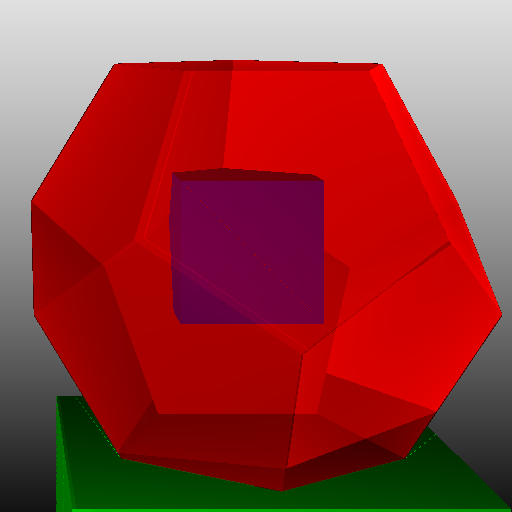
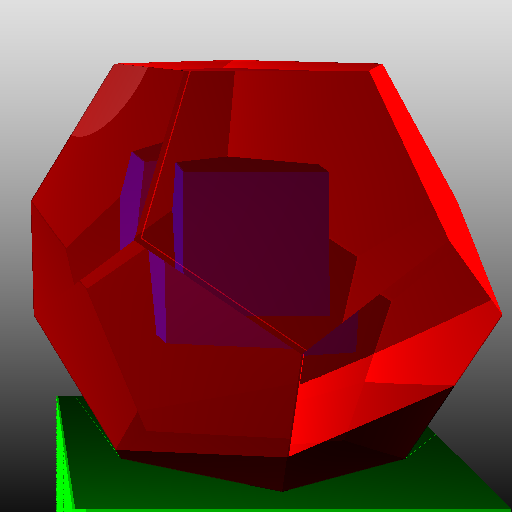
Process

diff --git a/Source/main.cpp b/Source/main.cpp
@@ -11,6 +11,7 @@
 float SIZE = 1;
 
 Vec refract_vec(Vec, Vec, float);
+Vec reflect_vec(Vec, Vec);
 
 Collision
 trace_ray(std::vector<Object *> *scene, std::vector<Light> *lights, Ray ray, int deep) {
@@ -28,9 +29,10 @@ trace_ray(std::vector<Object *> *scene, std::vector<Light> *lights, Ray ray, int
         }
     }
     if (hit.hit) {
-        Vec intersect(ray.pos + (ray.dir * hit.dist));
-        // light for THIS point
         size_t lights_len = lights->size();
+        Vec intersect(ray.pos + (ray.dir * hit.dist));
+        Vec first_intersect(intersect);
+        // light for THIS point
         float add = 0;
         for (size_t i = 0; i < lights_len; i++) {
             Vec light_dir = (*lights)[i].pos - intersect;
@@ -81,6 +83,29 @@ trace_ray(std::vector<Object *> *scene, std::vector<Light> *lights, Ray ray, int
             Collision through = trace_ray(scene, lights, through_ray, deep - 1);
             hit.color = (hit.color * hit.color.a) + (through.color * (1 - hit.color.a));
         }
+        if (hit.reflection > 0) { // other ray
+            Ray reflected_ray(first_intersect, reflect_vec(ray.dir, hit.normal));
+            Collision reflected = trace_ray(scene, lights, reflected_ray, deep - 1);
+            if (reflected.hit) {
+                hit.color = (hit.color * (1 - hit.reflection)) + (reflected.color * hit.reflection);
+            } else { // may be there is a light somewhere nearby?
+                float light_add = 0;
+                for (size_t i = 0; i < lights_len; i++) {
+                    Vec light_dir = (*lights)[i].pos - first_intersect;
+                    Vec current_dir = reflected_ray.pos + (reflected_ray.dir.normalize() * light_dir.len());
+                  //  float light_angle = abs(dot(light_dir.normalize(), current_dir.normalize()));
+                    //float angle_EPS = 0.1;
+                    float len_diff = (current_dir - light_dir).len(); 
+                    if (len_diff < 130) {
+                        std::cout << len_diff << '\n';   
+                        float angle = abs(dot(light_dir.normalize(), hit.normal.normalize()));
+                        light_add += angle * (*lights)[i].intensity / (light_dir.len() * light_dir.len());
+                    }
+                }
+                hit.color = (hit.color * (1 - hit.reflection)) + (Color(1, 1, 1, 1) *  (light_add * hit.reflection));
+
+            }
+        }
     
     }
     
@@ -93,6 +118,11 @@ refract_vec(Vec v, Vec normal, float refract) {
     float beta = asin(sin(alpha) / refract);
     Vec axis = cross(v, normal);
     return rotateAroundAxis(v, axis, beta - alpha);
+}
+
+Vec
+reflect_vec(Vec v, Vec normal) {
+    return v * dot(v, normal) * 2 - v;
 }
 
 void 
@@ -110,7 +140,7 @@ render(int size) {
     }
     std::vector<Light> lights = std::vector<Light>();
     lights.push_back(Light(Vec(0, 0, -size * 1.5), 1.5 * size * size));
-    lights.push_back(Light(Vec(-size * 3, size, 0), 4 * size * size));
+    lights.push_back(Light(Vec(-size * 2, size, 0), 10 * size * size));
     
     std::vector<Object*> scene = std::vector<Object*>();
     std::vector<Object*> sphere = std::vector<Object*>();
@@ -122,8 +152,8 @@ render(int size) {
     Vec d_center(size / 3, size / 3, 0);
     Vec d_normal(0, 1, 0);
     float d_size = size / 4.5;
-    Dodekaedr d(d_center, d_normal, d_size, Color(1, 0, 0, 0.5), 1, 0, 1.3, true);
-   
+    Dodekaedr d(d_center, d_normal, d_size, Color(1, 0, 0, 0.5), 1.1, 0.5, 1.3, true);
+       
     float a = d_size;
     float b = a / sqrt(2 - 2 * cos(2 * M_PI / 5));
     float r = a * (1 + sqrt(5)) * sqrt(3) / 4;
